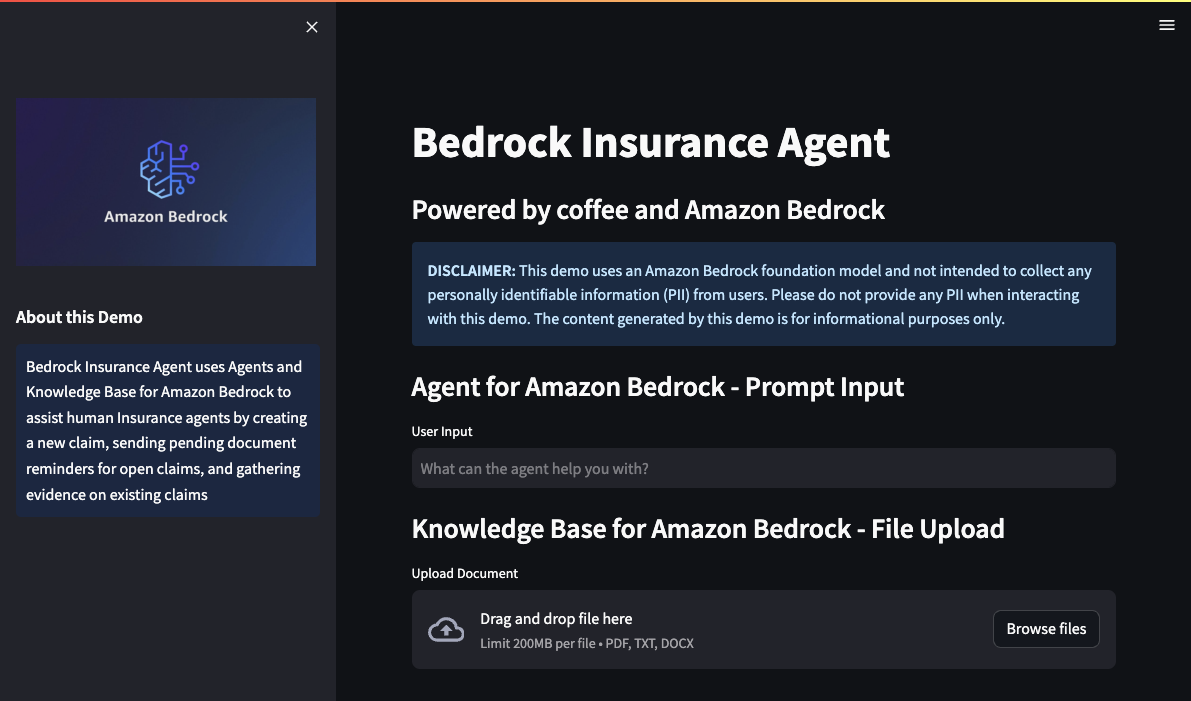
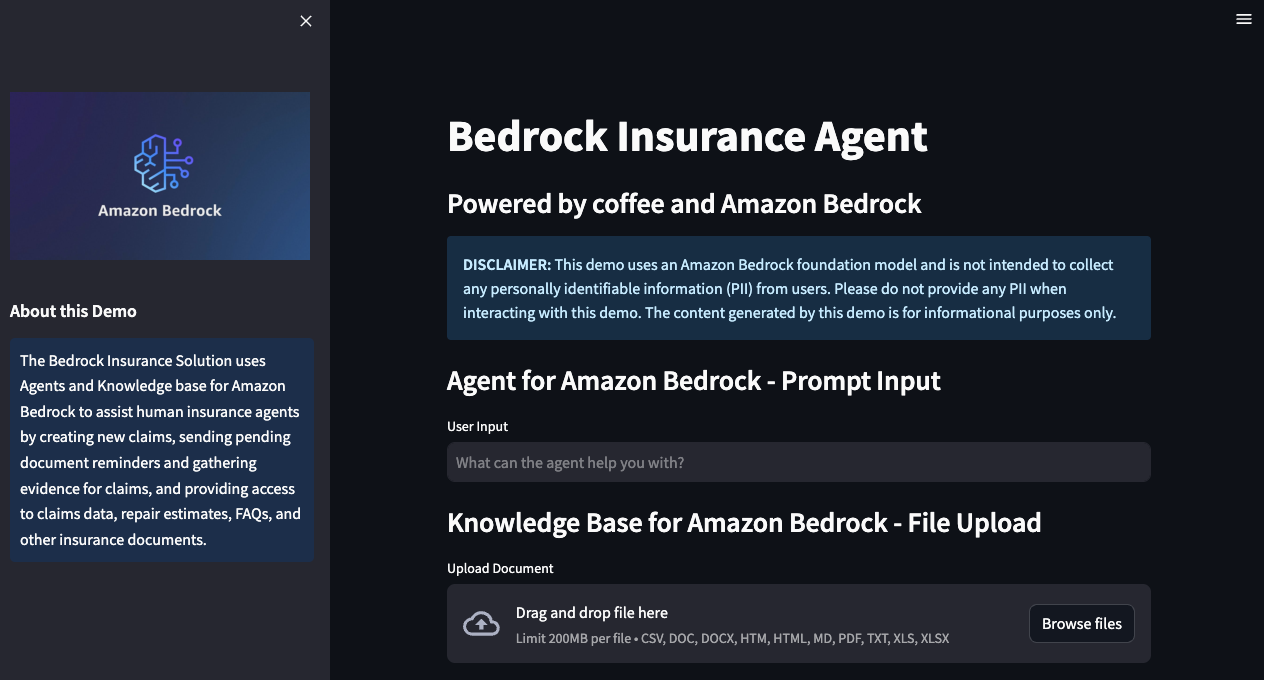
Local Updates v10

diff --git a/agents/insurance-solution/agent/streamlit/agent_streamlit.py b/agents/insurance-solution/agent/streamlit/agent_streamlit.py
@@ -57,12 +57,12 @@ custom_css = """
 # Streamlit App Layout
 st.title('Bedrock Insurance Agent')
 st.subheader('Powered by coffee and Amazon Bedrock')
-st.info("**DISCLAIMER:** This demo uses an Amazon Bedrock foundation model and not intended to collect any personally identifiable information (PII) from users. Please do not provide any PII when interacting with this demo. The content generated by this demo is for informational purposes only.")
+st.info("**DISCLAIMER:** This demo uses an Amazon Bedrock foundation model and is not intended to collect any personally identifiable information (PII) from users. Please do not provide any PII when interacting with this demo. The content generated by this demo is for informational purposes only.")
 idp_logo = "bedrock_logo.png"
 st.sidebar.image(idp_logo, width=300, output_format='PNG')
 st.sidebar.markdown(custom_css, unsafe_allow_html=True)
 st.sidebar.subheader('**About this Demo**')
-st.sidebar.markdown('<p class="text-with-bg">Bedrock Insurance Agent uses Agents and Knowledge Base for Amazon Bedrock to assist human Insurance agents by creating a new claim, sending pending document reminders for open claims, and gathering evidence on existing claims</p>', unsafe_allow_html=True)
+st.sidebar.markdown('<p class="text-with-bg">The Bedrock Insurance Solution uses Agents and Knowledge base for Amazon Bedrock to assist human insurance agents by creating new claims, sending pending document reminders and gathering evidence for claims, and providing access to claims data, repair estimates, FAQs, and other insurance documents. </p>', unsafe_allow_html=True)
 
 # Helper Functions
 def show_pdf(uploaded_file):
@@ -231,7 +231,7 @@ def main():
 
     # --- Knowledge Base Update ---
     st.subheader("Knowledge Base for Amazon Bedrock - File Upload")
-    uploaded_file = st.file_uploader("Upload Document", type=["csv", "doc", "docx", "html", "md", "pdf", "txt", "xls", "xlsx"])
+    uploaded_file = st.file_uploader("Upload Document", type=["csv", "doc", "docx", "htm", "html", "md", "pdf", "txt", "xls", "xlsx"])
 
     if uploaded_file is not None:
         with st.expander("Uploaded File 📁"):
